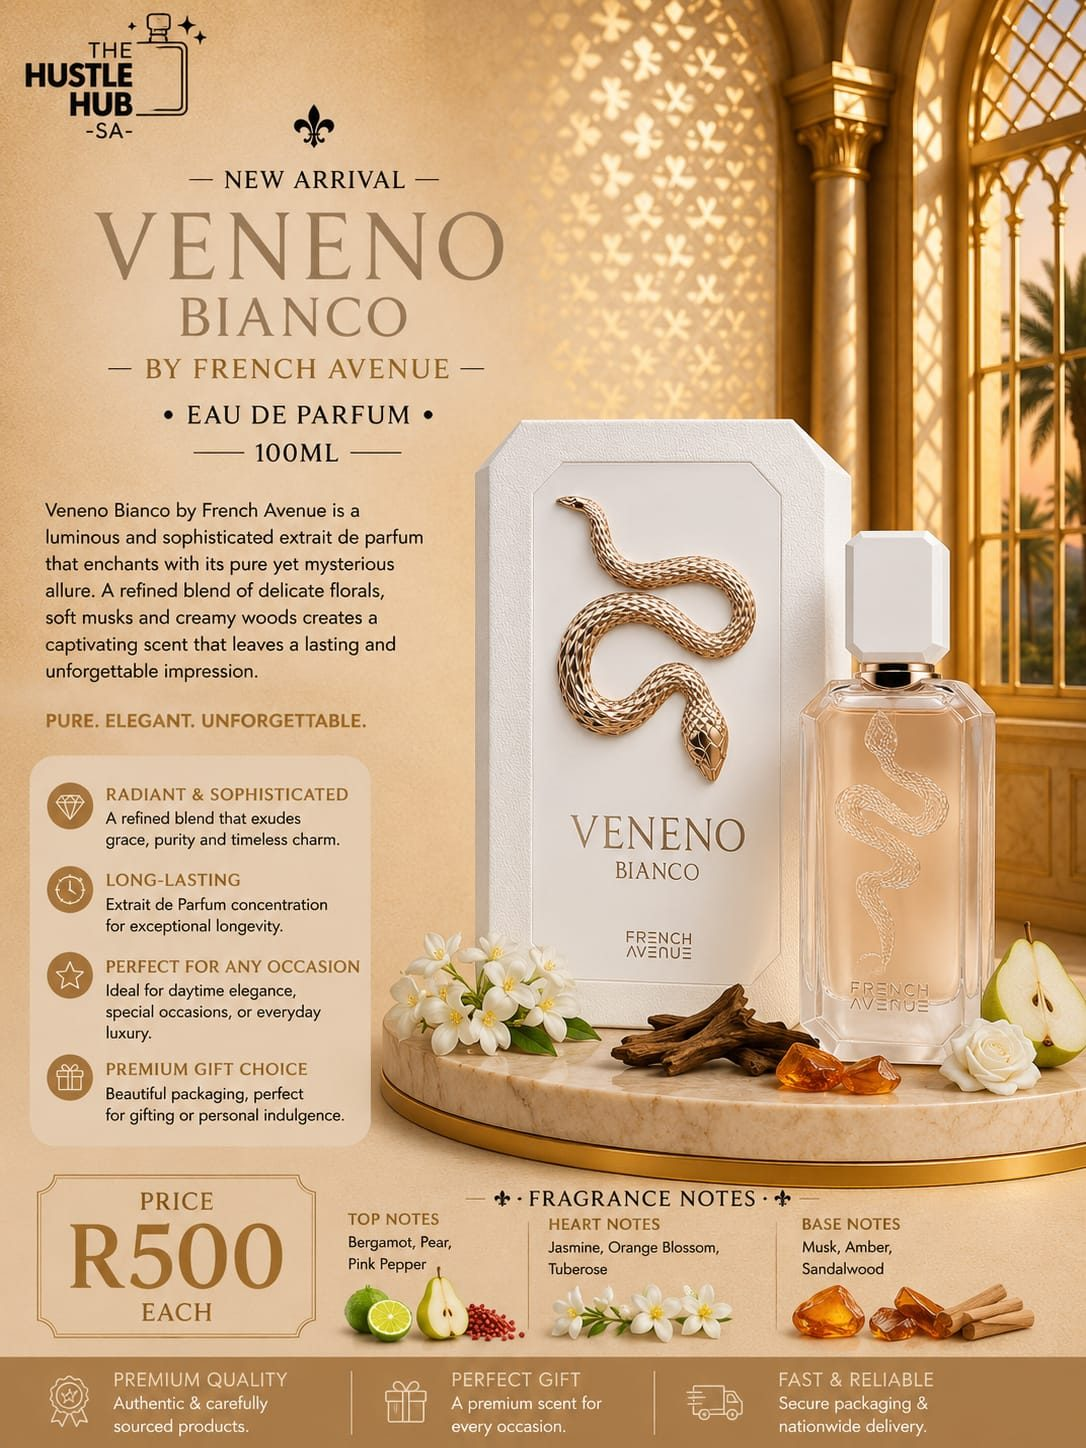
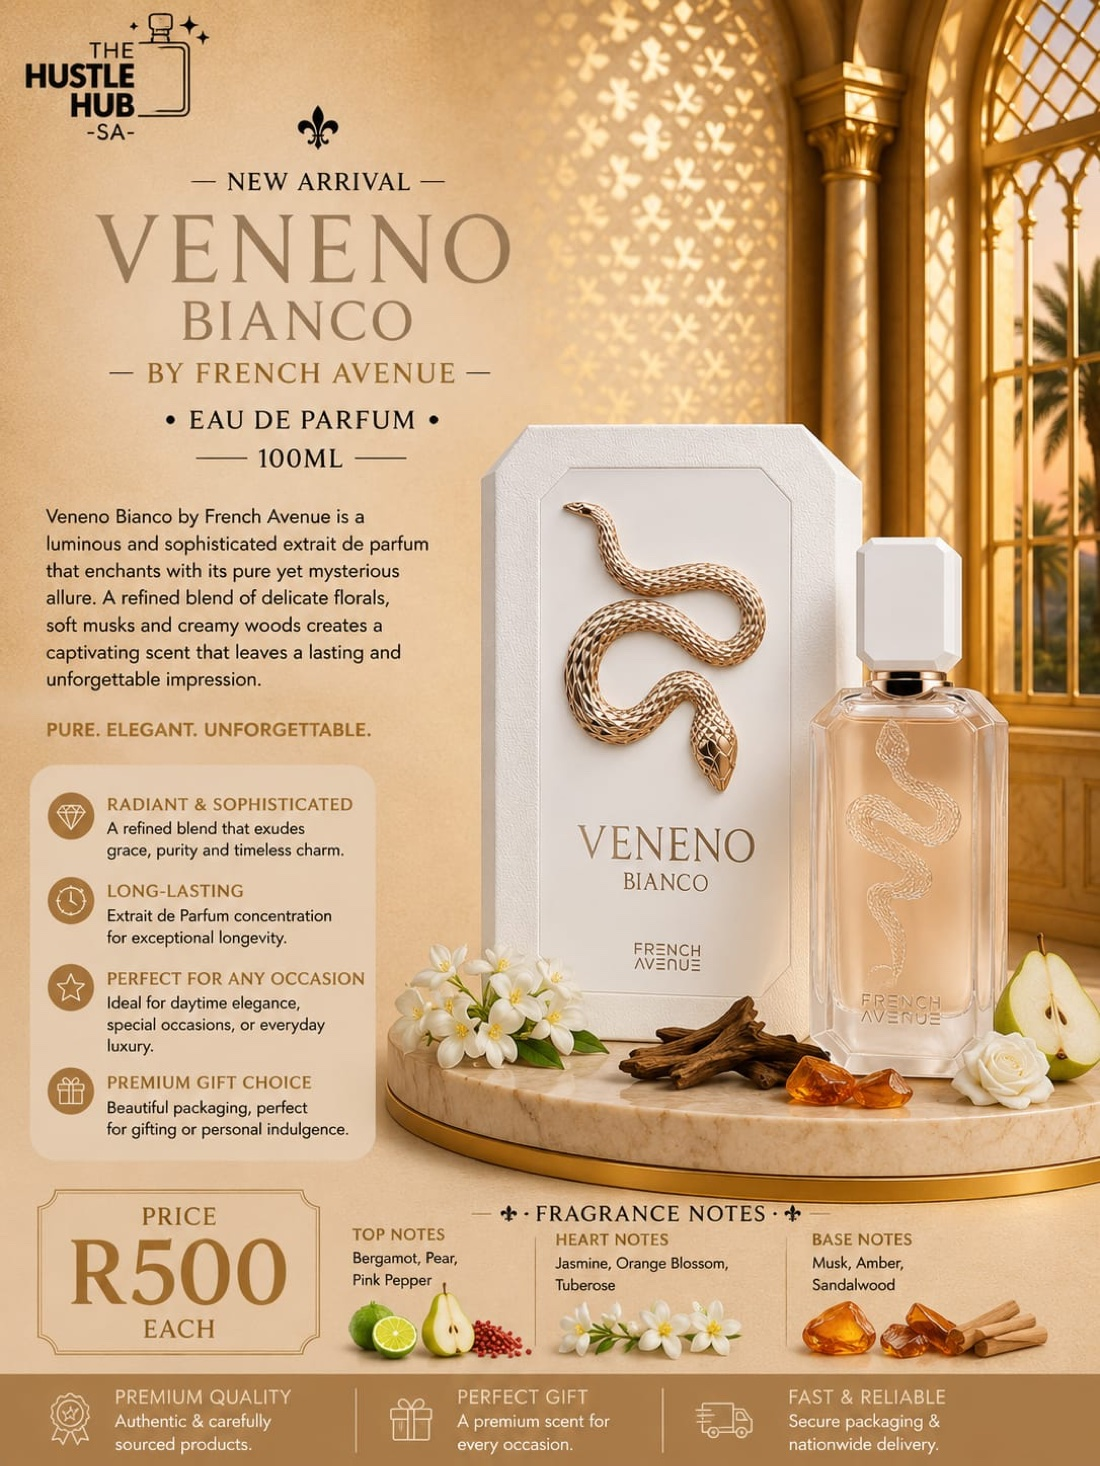
Add 19 new fragrances to Dubai Unisex; refresh Veneno Bianco photo
Dubai Unisex (48 -> 67):
- Rasasi (new section + filter): Hawas Atlantis, Malibu, Fire (100ml R450)
- Armaf (+4): Beach Party, Club de Nuit Untold / Sillage / Milestone (R480)
- French Avenue (+12): Veneno, Veneno Scarlet, Irida / Atlantis / Aether
  Extrait, Vulcan Feu, and the six Aromatix scents (R460-R510)
- Veneno Bianco: swapped in the newer Hustle Hub promo photo,
  sub updated to Extrait de Parfum

Home page: Dubai Unisex category card 48 -> 67 fragrances.

diff --git a/dubai-perfumes-unisex.html b/dubai-perfumes-unisex.html
@@ -243,9 +243,9 @@ footer{background:var(--bg2);border-top:1px solid var(--border);padding:40px 32p
 
 <!-- HERO BAND -->
 <div class="hero-band">
-  <div class="hero-eyebrow">Lattafa · Armaf · French Avenue · Al Haramain</div>
+  <div class="hero-eyebrow">Lattafa · Armaf · French Avenue · Rasasi · Afnan</div>
   <h1 class="hero-title">Dubai Perfumes<br/><span>Unisex</span></h1>
-  <p class="hero-desc">48 bold, long-lasting Arabian & Italian fragrances made to be shared — rich ouds, warm spices and smooth woods that wear beautifully on anyone. New unisex arrivals added regularly.</p>
+  <p class="hero-desc">67 bold, long-lasting Arabian & Italian fragrances made to be shared — rich ouds, warm spices and smooth woods that wear beautifully on anyone. New unisex arrivals added regularly.</p>
   <a href="index.html" class="back-link">← Back to Home</a>
 </div>
 
@@ -253,10 +253,11 @@ footer{background:var(--bg2);border-top:1px solid var(--border);padding:40px 32p
 <div class="filter-bar">
   <div class="filter-inner">
     <span class="filter-label">Filter by brand:</span>
-    <button class="filter-btn active" onclick="filterBrand('all', this)">All 48</button>
+    <button class="filter-btn active" onclick="filterBrand('all', this)">All 67</button>
     <button class="filter-btn" onclick="filterBrand('lattafa', this)">Lattafa</button>
     <button class="filter-btn" onclick="filterBrand('french-avenue', this)">French Avenue</button>
     <button class="filter-btn" onclick="filterBrand('armaf', this)">Armaf</button>
+    <button class="filter-btn" onclick="filterBrand('rasasi', this)">Rasasi</button>
     <button class="filter-btn" onclick="filterBrand('xerjoff', this)">Xerjoff</button>
     <button class="filter-btn" onclick="filterBrand('asdaaf', this)">Asdaaf</button>
     <button class="filter-btn" onclick="filterBrand('fragrance-world', this)">Fragrance World</button>
@@ -555,7 +556,7 @@ footer{background:var(--bg2);border-top:1px solid var(--border);padding:40px 32p
   <div class="section-inner">
     <div class="section-eyebrow">French Avenue · Dubai · Eau de Parfum</div>
     <h2 class="section-title">French Avenue</h2>
-    <p class="section-count">2 fragrances — R500 to R510</p>
+    <p class="section-count">14 fragrances — R460 to R510</p>
     <div class="product-grid">
 
       <div class="product-card">
@@ -563,7 +564,7 @@ footer{background:var(--bg2);border-top:1px solid var(--border);padding:40px 32p
         <div class="product-info">
           <div class="badge badge-gold">Available</div>
           <div class="product-name">Veneno Bianco</div>
-          <div class="product-sub">French Avenue · EDP · 100ml · Unisex</div>
+          <div class="product-sub">French Avenue · Extrait de Parfum · 100ml · Unisex</div>
           <div class="product-footer">
             <span class="product-price">R500</span>
             <button class="add-btn" onclick="addToCart('Veneno Bianco — French Avenue 100ml','R500','dubai-unisex-veneno-bianco.jpg')">+ Add to Order</button>
@@ -584,6 +585,162 @@ footer{background:var(--bg2);border-top:1px solid var(--border);padding:40px 32p
         </div>
       </div>
 
+      <div class="product-card">
+        <img src="dubai-unisex-veneno.jpg" alt="Veneno by French Avenue"/>
+        <div class="product-info">
+          <div class="badge badge-gold">New Arrival</div>
+          <div class="product-name">Veneno</div>
+          <div class="product-sub">French Avenue · Extrait de Parfum · 100ml · Unisex</div>
+          <div class="product-footer">
+            <span class="product-price">R500</span>
+            <button class="add-btn" onclick="addToCart('Veneno — French Avenue 100ml','R500','dubai-unisex-veneno.jpg')">+ Add to Order</button>
+          </div>
+        </div>
+      </div>
+
+      <div class="product-card">
+        <img src="dubai-unisex-veneno-scarlet.jpg" alt="Veneno Scarlet by French Avenue"/>
+        <div class="product-info">
+          <div class="badge badge-gold">New Arrival</div>
+          <div class="product-name">Veneno Scarlet</div>
+          <div class="product-sub">French Avenue · Extrait de Parfum · 100ml · Unisex</div>
+          <div class="product-footer">
+            <span class="product-price">R500</span>
+            <button class="add-btn" onclick="addToCart('Veneno Scarlet — French Avenue 100ml','R500','dubai-unisex-veneno-scarlet.jpg')">+ Add to Order</button>
+          </div>
+        </div>
+      </div>
+
+      <div class="product-card">
+        <img src="dubai-unisex-irida-extrait.jpg" alt="Irida Extrait by French Avenue"/>
+        <div class="product-info">
+          <div class="badge badge-gold">New Arrival</div>
+          <div class="product-name">Irida Extrait</div>
+          <div class="product-sub">French Avenue · Extrait de Parfum · 100ml · Unisex</div>
+          <div class="product-footer">
+            <span class="product-price">R500</span>
+            <button class="add-btn" onclick="addToCart('Irida Extrait — French Avenue 100ml','R500','dubai-unisex-irida-extrait.jpg')">+ Add to Order</button>
+          </div>
+        </div>
+      </div>
+
+      <div class="product-card">
+        <img src="dubai-unisex-atlantis-extrait.jpg" alt="Atlantis Extrait by French Avenue"/>
+        <div class="product-info">
+          <div class="badge badge-gold">New Arrival</div>
+          <div class="product-name">Atlantis Extrait</div>
+          <div class="product-sub">French Avenue · Extrait de Parfum · 100ml · Unisex</div>
+          <div class="product-footer">
+            <span class="product-price">R500</span>
+            <button class="add-btn" onclick="addToCart('Atlantis Extrait — French Avenue 100ml','R500','dubai-unisex-atlantis-extrait.jpg')">+ Add to Order</button>
+          </div>
+        </div>
+      </div>
+
+      <div class="product-card">
+        <img src="dubai-unisex-aether-extrait.jpg" alt="Aether Extrait by French Avenue"/>
+        <div class="product-info">
+          <div class="badge badge-gold">New Arrival</div>
+          <div class="product-name">Aether Extrait</div>
+          <div class="product-sub">French Avenue · Extrait de Parfum · 100ml · Unisex</div>
+          <div class="product-footer">
+            <span class="product-price">R460</span>
+            <button class="add-btn" onclick="addToCart('Aether Extrait — French Avenue 100ml','R460','dubai-unisex-aether-extrait.jpg')">+ Add to Order</button>
+          </div>
+        </div>
+      </div>
+
+      <div class="product-card">
+        <img src="dubai-unisex-vulcan-feu.jpg" alt="Vulcan Feu by French Avenue"/>
+        <div class="product-info">
+          <div class="badge badge-gold">New Arrival</div>
+          <div class="product-name">Vulcan Feu</div>
+          <div class="product-sub">French Avenue · Extrait de Parfum · 100ml · Unisex</div>
+          <div class="product-footer">
+            <span class="product-price">R480</span>
+            <button class="add-btn" onclick="addToCart('Vulcan Feu — French Avenue 100ml','R480','dubai-unisex-vulcan-feu.jpg')">+ Add to Order</button>
+          </div>
+        </div>
+      </div>
+
+      <div class="product-card">
+        <img src="dubai-unisex-aromatix-carnal-desire.jpg" alt="Aromatix Carnal Desire by French Avenue"/>
+        <div class="product-info">
+          <div class="badge badge-gold">New Arrival</div>
+          <div class="product-name">Aromatix Carnal Desire</div>
+          <div class="product-sub">French Avenue · Extrait de Parfum · 100ml · Unisex</div>
+          <div class="product-footer">
+            <span class="product-price">R480</span>
+            <button class="add-btn" onclick="addToCart('Aromatix Carnal Desire — French Avenue 100ml','R480','dubai-unisex-aromatix-carnal-desire.jpg')">+ Add to Order</button>
+          </div>
+        </div>
+      </div>
+
+      <div class="product-card">
+        <img src="dubai-unisex-aromatix-naughty-dates.jpg" alt="Aromatix Naughty Dates by French Avenue"/>
+        <div class="product-info">
+          <div class="badge badge-gold">New Arrival</div>
+          <div class="product-name">Aromatix Naughty Dates</div>
+          <div class="product-sub">French Avenue · Extrait de Parfum · 100ml · Unisex</div>
+          <div class="product-footer">
+            <span class="product-price">R480</span>
+            <button class="add-btn" onclick="addToCart('Aromatix Naughty Dates — French Avenue 100ml','R480','dubai-unisex-aromatix-naughty-dates.jpg')">+ Add to Order</button>
+          </div>
+        </div>
+      </div>
+
+      <div class="product-card">
+        <img src="dubai-unisex-aromatix-teas-me.jpg" alt="Aromatix Teas Me by French Avenue"/>
+        <div class="product-info">
+          <div class="badge badge-gold">New Arrival</div>
+          <div class="product-name">Aromatix Teas Me</div>
+          <div class="product-sub">French Avenue · Extrait de Parfum · 100ml · Unisex</div>
+          <div class="product-footer">
+            <span class="product-price">R480</span>
+            <button class="add-btn" onclick="addToCart('Aromatix Teas Me — French Avenue 100ml','R480','dubai-unisex-aromatix-teas-me.jpg')">+ Add to Order</button>
+          </div>
+        </div>
+      </div>
+
+      <div class="product-card">
+        <img src="dubai-unisex-aromatix-forbidden-fruit.jpg" alt="Aromatix Forbidden Fruit by French Avenue"/>
+        <div class="product-info">
+          <div class="badge badge-gold">New Arrival</div>
+          <div class="product-name">Aromatix Forbidden Fruit</div>
+          <div class="product-sub">French Avenue · Extrait de Parfum · 100ml · Unisex</div>
+          <div class="product-footer">
+            <span class="product-price">R480</span>
+            <button class="add-btn" onclick="addToCart('Aromatix Forbidden Fruit — French Avenue 100ml','R480','dubai-unisex-aromatix-forbidden-fruit.jpg')">+ Add to Order</button>
+          </div>
+        </div>
+      </div>
+
+      <div class="product-card">
+        <img src="dubai-unisex-aromatix-x-xandal.jpg" alt="Aromatix X Xandal by French Avenue"/>
+        <div class="product-info">
+          <div class="badge badge-gold">New Arrival</div>
+          <div class="product-name">Aromatix X Xandal</div>
+          <div class="product-sub">French Avenue · Extrait de Parfum · 100ml · Unisex</div>
+          <div class="product-footer">
+            <span class="product-price">R480</span>
+            <button class="add-btn" onclick="addToCart('Aromatix X Xandal — French Avenue 100ml','R480','dubai-unisex-aromatix-x-xandal.jpg')">+ Add to Order</button>
+          </div>
+        </div>
+      </div>
+
+      <div class="product-card">
+        <img src="dubai-unisex-aromatix-royal-taboo.jpg" alt="Aromatix Royal Taboo by French Avenue"/>
+        <div class="product-info">
+          <div class="badge badge-gold">New Arrival</div>
+          <div class="product-name">Aromatix Royal Taboo</div>
+          <div class="product-sub">French Avenue · Extrait de Parfum · 100ml · Unisex</div>
+          <div class="product-footer">
+            <span class="product-price">R480</span>
+            <button class="add-btn" onclick="addToCart('Aromatix Royal Taboo — French Avenue 100ml','R480','dubai-unisex-aromatix-royal-taboo.jpg')">+ Add to Order</button>
+          </div>
+        </div>
+      </div>
+
     </div>
   </div>
 </section>
@@ -591,9 +748,9 @@ footer{background:var(--bg2);border-top:1px solid var(--border);padding:40px 32p
 <!-- ARMAF -->
 <section id="armaf" style="background:var(--bg3)" data-brand="armaf">
   <div class="section-inner">
-    <div class="section-eyebrow">Armaf · Odyssey · Eau de Parfum</div>
+    <div class="section-eyebrow">Armaf · Club de Nuit · Odyssey · Eau de Parfum</div>
     <h2 class="section-title">Armaf</h2>
-    <p class="section-count">2 fragrances — R450 each</p>
+    <p class="section-count">6 fragrances — R450 to R480</p>
     <div class="product-grid">
 
       <div class="product-card">
@@ -618,6 +775,109 @@ footer{background:var(--bg2);border-top:1px solid var(--border);padding:40px 32p
           <div class="product-footer">
             <span class="product-price">R450</span>
             <button class="add-btn" onclick="addToCart('Odyssey Mandarin Sky Elixir — Armaf 100ml','R450','dubai-unisex-odyssey-mandarin-sky-elixir.jpg')">+ Add to Order</button>
+          </div>
+        </div>
+      </div>
+
+      <div class="product-card">
+        <img src="dubai-unisex-armaf-beach-party.jpg" alt="Armaf Beach Party"/>
+        <div class="product-info">
+          <div class="badge badge-gold">New Arrival</div>
+          <div class="product-name">Beach Party</div>
+          <div class="product-sub">Armaf · EDP · 100ml · Unisex</div>
+          <div class="product-footer">
+            <span class="product-price">R480</span>
+            <button class="add-btn" onclick="addToCart('Beach Party — Armaf 100ml','R480','dubai-unisex-armaf-beach-party.jpg')">+ Add to Order</button>
+          </div>
+        </div>
+      </div>
+
+      <div class="product-card">
+        <img src="dubai-unisex-cdn-untold.jpg" alt="Armaf Club de Nuit Untold"/>
+        <div class="product-info">
+          <div class="badge badge-gold">New Arrival</div>
+          <div class="product-name">Club de Nuit Untold</div>
+          <div class="product-sub">Armaf · EDP · 100ml · Unisex</div>
+          <div class="product-footer">
+            <span class="product-price">R480</span>
+            <button class="add-btn" onclick="addToCart('Club de Nuit Untold — Armaf 100ml','R480','dubai-unisex-cdn-untold.jpg')">+ Add to Order</button>
+          </div>
+        </div>
+      </div>
+
+      <div class="product-card">
+        <img src="dubai-unisex-cdn-sillage.jpg" alt="Armaf Club de Nuit Sillage"/>
+        <div class="product-info">
+          <div class="badge badge-gold">New Arrival</div>
+          <div class="product-name">Club de Nuit Sillage</div>
+          <div class="product-sub">Armaf · EDP · 100ml · Unisex</div>
+          <div class="product-footer">
+            <span class="product-price">R480</span>
+            <button class="add-btn" onclick="addToCart('Club de Nuit Sillage — Armaf 100ml','R480','dubai-unisex-cdn-sillage.jpg')">+ Add to Order</button>
+          </div>
+        </div>
+      </div>
+
+      <div class="product-card">
+        <img src="dubai-unisex-cdn-milestone.jpg" alt="Armaf Club de Nuit Milestone"/>
+        <div class="product-info">
+          <div class="badge badge-gold">New Arrival</div>
+          <div class="product-name">Club de Nuit Milestone</div>
+          <div class="product-sub">Armaf · EDP · 100ml · Unisex</div>
+          <div class="product-footer">
+            <span class="product-price">R480</span>
+            <button class="add-btn" onclick="addToCart('Club de Nuit Milestone — Armaf 100ml','R480','dubai-unisex-cdn-milestone.jpg')">+ Add to Order</button>
+          </div>
+        </div>
+      </div>
+
+    </div>
+  </div>
+</section>
+
+<!-- RASASI -->
+<section id="rasasi" style="background:var(--bg2)" data-brand="rasasi">
+  <div class="section-inner">
+    <div class="section-eyebrow">Rasasi · Hawas · Eau de Parfum</div>
+    <h2 class="section-title">Rasasi</h2>
+    <p class="section-count">3 fragrances — R450 each</p>
+    <div class="product-grid">
+
+      <div class="product-card">
+        <img src="dubai-unisex-hawas-atlantis.jpg" alt="Hawas Atlantis by Rasasi"/>
+        <div class="product-info">
+          <div class="badge badge-gold">New Arrival</div>
+          <div class="product-name">Hawas Atlantis</div>
+          <div class="product-sub">Rasasi · EDP · 100ml · Unisex</div>
+          <div class="product-footer">
+            <span class="product-price">R450</span>
+            <button class="add-btn" onclick="addToCart('Hawas Atlantis — Rasasi 100ml','R450','dubai-unisex-hawas-atlantis.jpg')">+ Add to Order</button>
+          </div>
+        </div>
+      </div>
+
+      <div class="product-card">
+        <img src="dubai-unisex-hawas-malibu.jpg" alt="Hawas Malibu by Rasasi"/>
+        <div class="product-info">
+          <div class="badge badge-gold">New Arrival</div>
+          <div class="product-name">Hawas Malibu</div>
+          <div class="product-sub">Rasasi · EDP · 100ml · Unisex</div>
+          <div class="product-footer">
+            <span class="product-price">R450</span>
+            <button class="add-btn" onclick="addToCart('Hawas Malibu — Rasasi 100ml','R450','dubai-unisex-hawas-malibu.jpg')">+ Add to Order</button>
+          </div>
+        </div>
+      </div>
+
+      <div class="product-card">
+        <img src="dubai-unisex-hawas-fire.jpg" alt="Hawas Fire by Rasasi"/>
+        <div class="product-info">
+          <div class="badge badge-gold">New Arrival</div>
+          <div class="product-name">Hawas Fire</div>
+          <div class="product-sub">Rasasi · EDP · 100ml · Unisex</div>
+          <div class="product-footer">
+            <span class="product-price">R450</span>
+            <button class="add-btn" onclick="addToCart('Hawas Fire — Rasasi 100ml','R450','dubai-unisex-hawas-fire.jpg')">+ Add to Order</button>
           </div>
         </div>
       </div>

diff --git a/index.html b/index.html
@@ -729,7 +729,7 @@
 
       <a class="cat-card" href="dubai-perfumes-unisex.html">
         <div class="cat-label">Dubai Perfumes — Unisex</div>
-        <div class="cat-items">Lattafa · Afnan · Xerjoff · Armaf · French Avenue · 9PM · Ana Abiyedh · Minis · 48 fragrances</div>
+        <div class="cat-items">Lattafa · French Avenue · Armaf · Xerjoff · Afnan · Rasasi · Aromatix · Veneno · Minis · 67 fragrances</div>
       </a>
 
       <a class="cat-card" href="designer-ladies-fragrances.html">
